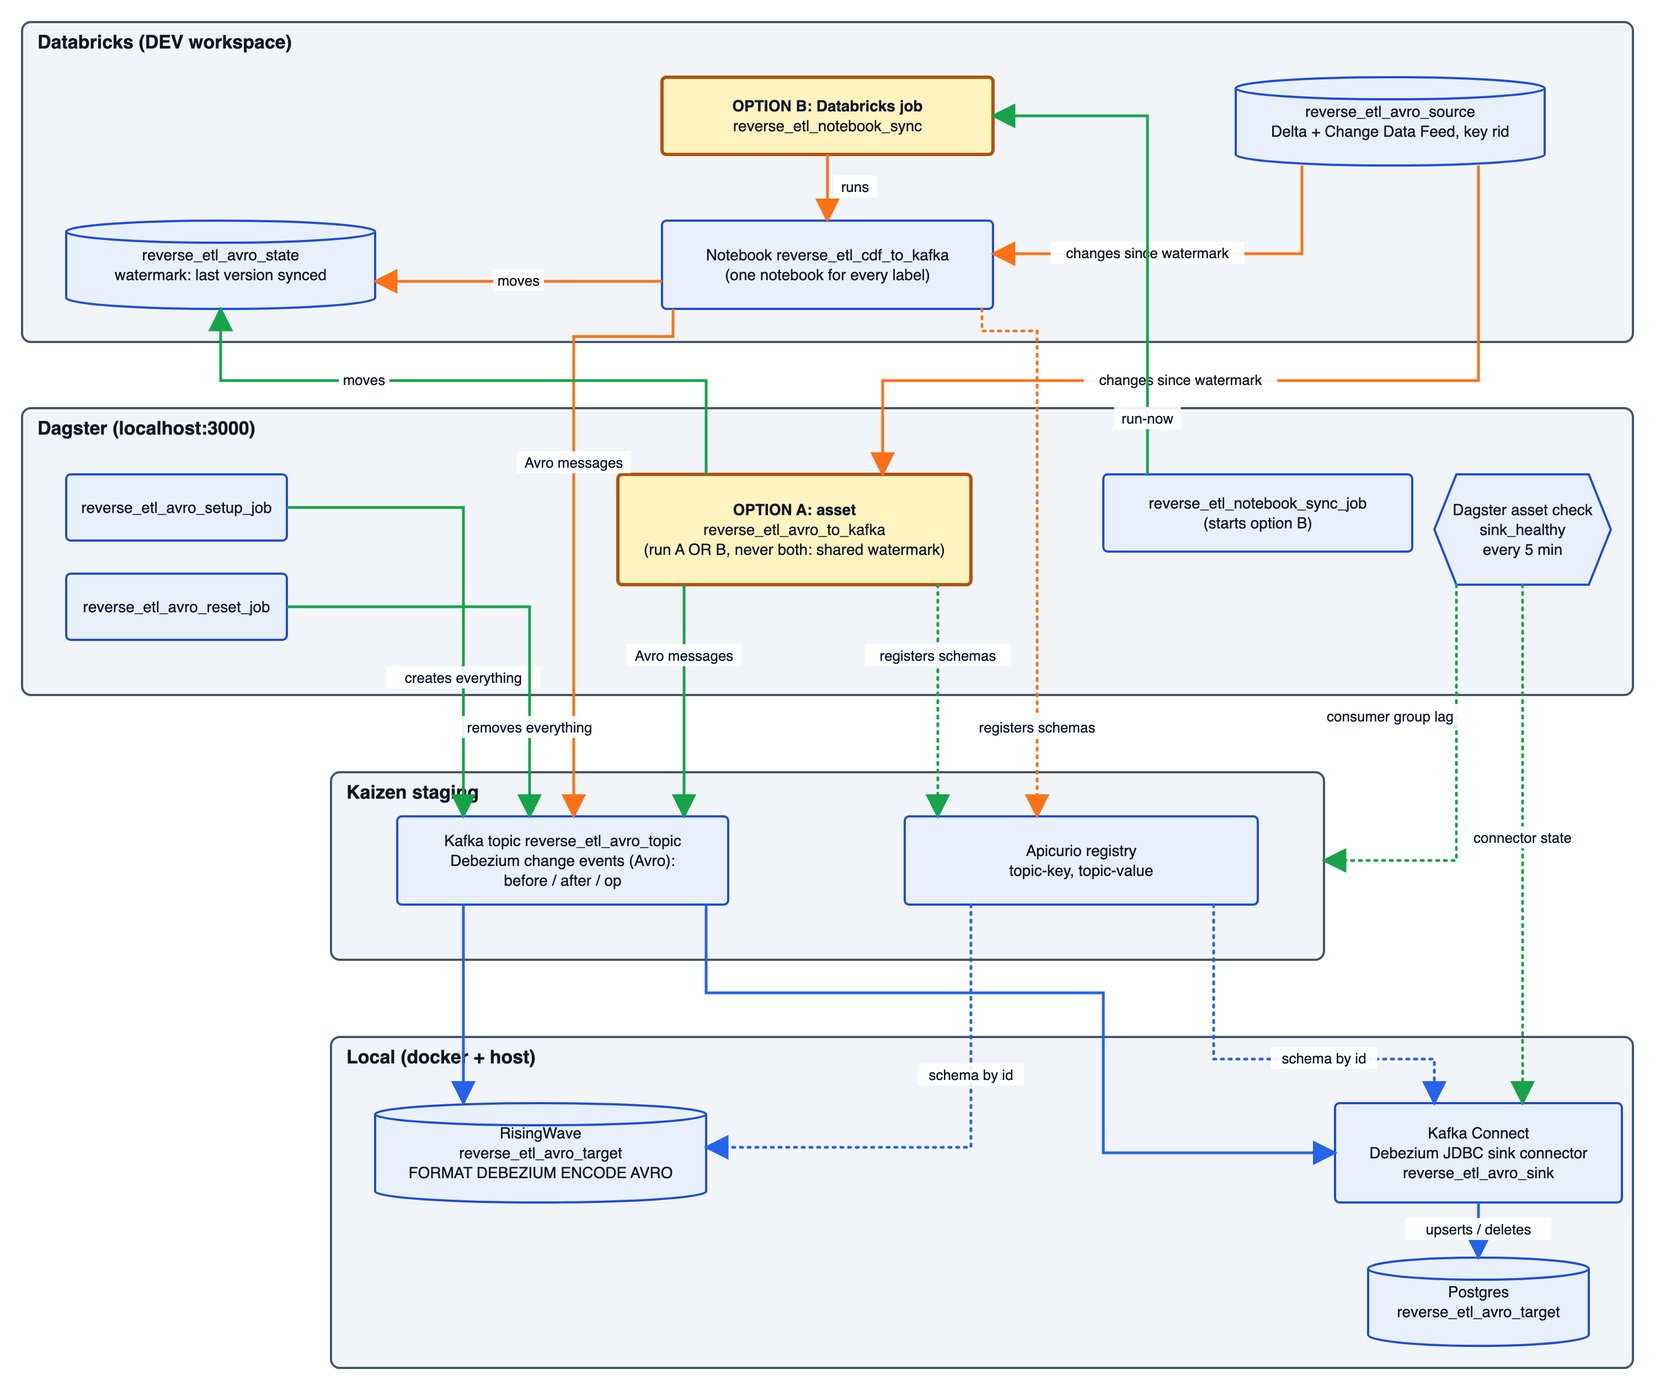
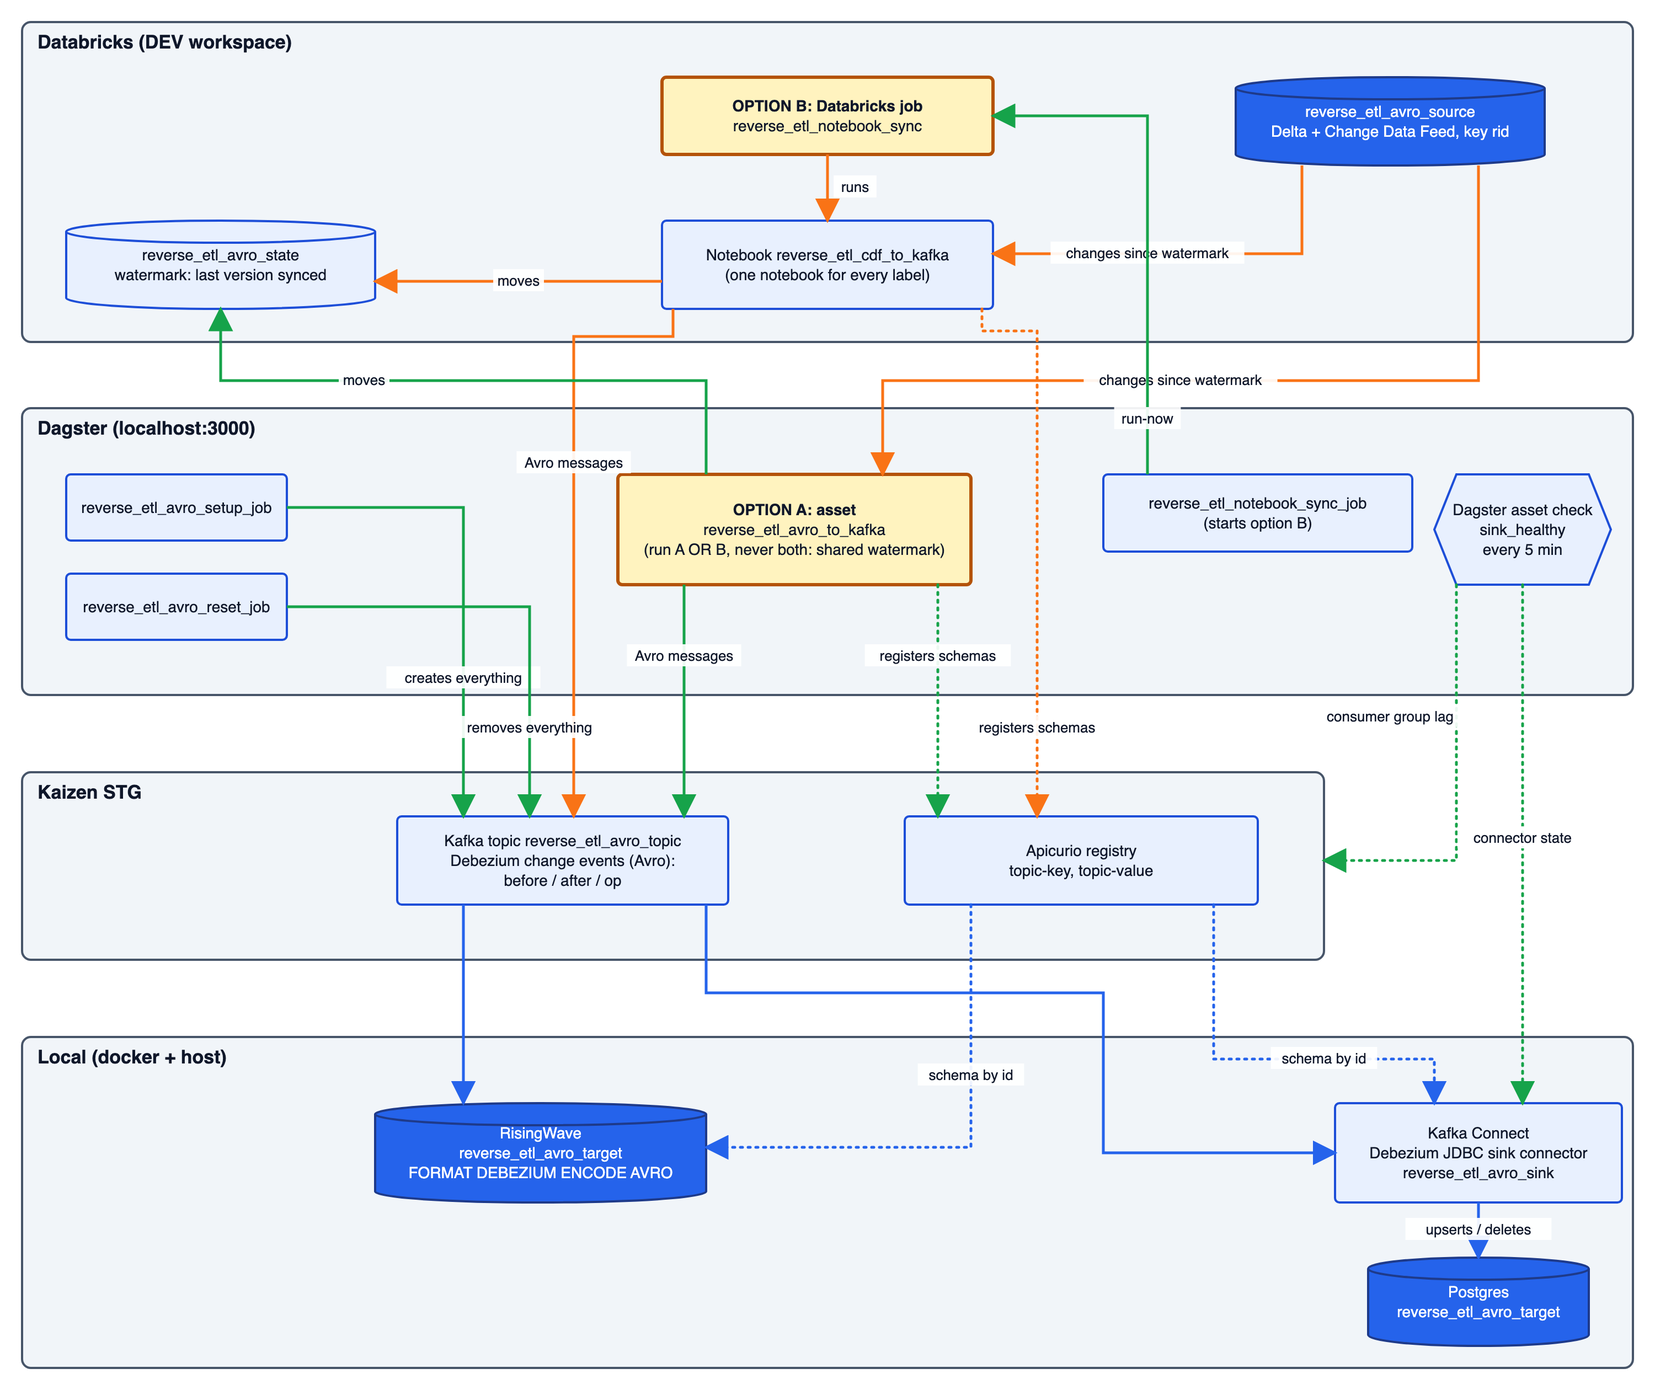
docs: Add an animated data flow page and refresh the components diagram
- Add reverse_etl_data_flow.html: a step-by-step animation of one change with a
  description of each step, plus what the Databricks source table needs and its DDL
  (checked against the live table).
- Components diagram: align the Kaizen STG and Local boxes and their titles with the
  Dagster box, rename Kaizen staging to Kaizen STG, fill the three tables solid, and
  re-export the PNG.
- Live demo doc: drop the text diagram in favour of the image and link the animation.

diff --git a/docs/poc/reverse_etl_data_flow.html b/docs/poc/reverse_etl_data_flow.html
@@ -1,0 +1,204 @@
+<!DOCTYPE html>
+<html lang="en">
+<head>
+<meta charset="utf-8">
+<meta name="viewport" content="width=device-width, initial-scale=1">
+<title>Reverse-ETL data flow</title>
+<style>
+  :root {
+    --bg: #ffffff; --text: #1f1e1d; --muted: #5f5e5a; --line: #b4b2a9; --card: #f5f4ee; --card-border: #d3d1c7; --active: #ef9f27;
+    --coral-f: #faece7; --coral-s: #993c1d; --coral-t: #712b13; --coral-u: #993c1d;
+    --purple-f: #eeedfe; --purple-s: #534ab7; --purple-t: #3c3489; --purple-u: #534ab7;
+    --teal-f: #e1f5ee; --teal-s: #0f6e56; --teal-t: #085041; --teal-u: #0f6e56;
+  }
+  @media (prefers-color-scheme: dark) {
+    :root {
+      --bg: #1f1e1d; --text: #f1efe8; --muted: #b4b2a9; --line: #5f5e5a; --card: #2c2c2a; --card-border: #444441;
+      --coral-f: #712b13; --coral-s: #f0997b; --coral-t: #faece7; --coral-u: #f5c4b3;
+      --purple-f: #3c3489; --purple-s: #afa9ec; --purple-t: #eeedfe; --purple-u: #cecbf6;
+      --teal-f: #085041; --teal-s: #5dcaa5; --teal-t: #e1f5ee; --teal-u: #9fe1cb;
+    }
+  }
+  * { box-sizing: border-box; }
+  body { margin: 0; padding: 24px; background: var(--bg); color: var(--text); font-family: -apple-system, "Segoe UI", Helvetica, Arial, sans-serif; }
+  h1 { font-size: 22px; font-weight: 500; margin: 0 0 4px; }
+  .sub { color: var(--muted); font-size: 14px; margin: 0 0 20px; }
+  .wrap { display: grid; grid-template-columns: minmax(0, 680px) minmax(280px, 1fr); gap: 24px; align-items: start; max-width: 1200px; }
+  @media (max-width: 1000px) { .wrap { grid-template-columns: minmax(0, 1fr); } }
+  svg { width: 100%; height: auto; display: block; }
+  svg text { font-family: inherit; fill: var(--text); }
+  .th { font-size: 14px; font-weight: 500; }
+  .ts { font-size: 12px; }
+  .coral rect { fill: var(--coral-f); stroke: var(--coral-s); } .coral .th { fill: var(--coral-t); } .coral .ts { fill: var(--coral-u); }
+  .purple rect { fill: var(--purple-f); stroke: var(--purple-s); } .purple .th { fill: var(--purple-t); } .purple .ts { fill: var(--purple-u); }
+  .teal rect { fill: var(--teal-f); stroke: var(--teal-s); } .teal .th { fill: var(--teal-t); } .teal .ts { fill: var(--teal-u); }
+  .node { transition: opacity .3s; }
+  .edge { stroke: var(--line); stroke-width: 1.5; opacity: .35; transition: opacity .3s; }
+  .edge.on { stroke: var(--active); stroke-width: 2.5; opacity: 1; }
+  .controls { display: flex; align-items: center; gap: 8px; margin-top: 12px; }
+  button { font: inherit; font-size: 14px; color: var(--text); background: transparent; border: 0.5px solid var(--line); border-radius: 8px; padding: 6px 14px; cursor: pointer; }
+  button:hover { background: var(--card); }
+  button:focus-visible { outline: 2px solid var(--active); outline-offset: 2px; }
+  .pos { margin-left: auto; font-size: 13px; color: var(--muted); }
+  ol { list-style: none; margin: 0; padding: 0; display: flex; flex-direction: column; gap: 8px; }
+  li { display: grid; grid-template-columns: 28px 1fr; gap: 4px 10px; padding: 10px 12px; border: 0.5px solid var(--card-border); border-radius: 12px; cursor: pointer; opacity: .6; transition: opacity .3s, background .3s; }
+  li:hover { opacity: .9; }
+  li.on { opacity: 1; background: var(--card); border-color: var(--active); border-width: 1.5px; }
+  .num { grid-row: 1 / span 2; width: 24px; height: 24px; border-radius: 50%; border: 0.5px solid var(--line); font-size: 12px; display: flex; align-items: center; justify-content: center; margin-top: 1px; }
+  li.on .num { background: var(--active); border-color: var(--active); color: #412402; font-weight: 500; }
+  .t { font-size: 15px; font-weight: 500; }
+  .d { font-size: 13.5px; color: var(--muted); line-height: 1.55; }
+  .notes { max-width: 1200px; margin-top: 32px; padding-top: 20px; border-top: 0.5px solid var(--card-border); }
+  .notes h2 { font-size: 18px; font-weight: 500; margin: 0 0 4px; }
+  .notes .grid { display: grid; grid-template-columns: minmax(0, 1fr) minmax(0, 1fr); gap: 24px; align-items: start; }
+  @media (max-width: 1000px) { .notes .grid { grid-template-columns: minmax(0, 1fr); } }
+  .notes ul { margin: 0; padding-left: 18px; font-size: 14px; line-height: 1.6; color: var(--muted); }
+  .notes ul li { display: list-item; padding: 0; margin-bottom: 8px; border: 0; opacity: 1; cursor: auto; }
+  .notes b { color: var(--text); font-weight: 500; }
+  .notes p, .notes li { overflow-wrap: anywhere; }
+  .notes code { font-family: ui-monospace, Menlo, monospace; font-size: 12.5px; background: var(--card); padding: 1px 5px; border-radius: 4px; }
+  .notes pre { margin: 0 0 16px; padding: 12px 14px; background: var(--card); border: 0.5px solid var(--card-border); border-radius: 8px; font-family: ui-monospace, Menlo, monospace; font-size: 12.5px; line-height: 1.55; overflow-x: auto; }
+  .notes .label { font-size: 13px; font-weight: 500; margin: 0 0 6px; }
+  @media (prefers-reduced-motion: reduce) { .node, .edge, li { transition: none; } }
+</style>
+</head>
+<body>
+<h1>Reverse-ETL data flow</h1>
+<p class="sub">One change, from the Databricks Delta table to Postgres and RisingWave. Use the buttons, click a step, or press the left and right arrow keys.</p>
+
+<div class="wrap">
+  <div>
+    <svg viewBox="0 0 680 350" role="img" aria-label="Source table and state table feed a sync, which writes schemas to a registry and messages to Kafka; Kafka Connect writes Postgres and RisingWave reads the topic directly.">
+      <defs><marker id="arrow" viewBox="0 0 10 10" refX="8" refY="5" markerWidth="6" markerHeight="6" orient="auto-start-reverse"><path d="M2 1L8 5L2 9" fill="none" stroke="context-stroke" stroke-width="1.5" stroke-linecap="round" stroke-linejoin="round"/></marker></defs>
+
+      <line id="e1" class="edge" x1="180" y1="70" x2="265" y2="125" marker-end="url(#arrow)"/>
+      <line id="e2" class="edge" x1="180" y1="185" x2="265" y2="150" marker-end="url(#arrow)"/>
+      <line id="e8" class="edge" x1="265" y1="162" x2="180" y2="200" marker-end="url(#arrow)"/>
+      <line id="e3" class="edge" x1="415" y1="120" x2="500" y2="70" marker-end="url(#arrow)"/>
+      <line id="e4" class="edge" x1="415" y1="138" x2="500" y2="138" marker-end="url(#arrow)"/>
+      <line id="e5" class="edge" x1="530" y1="166" x2="400" y2="240" marker-end="url(#arrow)"/>
+      <line id="e6" class="edge" x1="265" y1="268" x2="180" y2="268" marker-end="url(#arrow)"/>
+      <line id="e7" class="edge" x1="575" y1="166" x2="575" y2="240" marker-end="url(#arrow)"/>
+
+      <g id="n-src" class="node coral"><rect x="30" y="30" width="150" height="56" rx="4" stroke-width="0.5"/><text class="th" x="105" y="51" text-anchor="middle" dominant-baseline="central">Source table</text><text class="ts" x="105" y="70" text-anchor="middle" dominant-baseline="central">Databricks Delta</text></g>
+      <g id="n-state" class="node coral"><rect x="30" y="160" width="150" height="56" rx="4" stroke-width="0.5"/><text class="th" x="105" y="181" text-anchor="middle" dominant-baseline="central">State table</text><text class="ts" x="105" y="200" text-anchor="middle" dominant-baseline="central">Watermark</text></g>
+      <g id="n-sync" class="node purple"><rect x="265" y="110" width="150" height="56" rx="4" stroke-width="0.5"/><text class="th" x="340" y="131" text-anchor="middle" dominant-baseline="central">Sync</text><text class="ts" x="340" y="150" text-anchor="middle" dominant-baseline="central">Dagster asset</text></g>
+      <g id="n-reg" class="node teal"><rect x="500" y="30" width="150" height="56" rx="4" stroke-width="0.5"/><text class="th" x="575" y="51" text-anchor="middle" dominant-baseline="central">Registry</text><text class="ts" x="575" y="70" text-anchor="middle" dominant-baseline="central">Apicurio schemas</text></g>
+      <g id="n-kafka" class="node teal"><rect x="500" y="110" width="150" height="56" rx="4" stroke-width="0.5"/><text class="th" x="575" y="131" text-anchor="middle" dominant-baseline="central">Kafka topic</text><text class="ts" x="575" y="150" text-anchor="middle" dominant-baseline="central">Avro change events</text></g>
+      <g id="n-connect" class="node teal"><rect x="265" y="240" width="150" height="56" rx="4" stroke-width="0.5"/><text class="th" x="340" y="261" text-anchor="middle" dominant-baseline="central">Kafka Connect</text><text class="ts" x="340" y="280" text-anchor="middle" dominant-baseline="central">Debezium JDBC sink</text></g>
+      <g id="n-pg" class="node teal"><rect x="30" y="240" width="150" height="56" rx="4" stroke-width="0.5"/><text class="th" x="105" y="261" text-anchor="middle" dominant-baseline="central">Postgres</text><text class="ts" x="105" y="280" text-anchor="middle" dominant-baseline="central">Target table</text></g>
+      <g id="n-rw" class="node teal"><rect x="500" y="240" width="150" height="56" rx="4" stroke-width="0.5"/><text class="th" x="575" y="261" text-anchor="middle" dominant-baseline="central">RisingWave</text><text class="ts" x="575" y="280" text-anchor="middle" dominant-baseline="central">Target table</text></g>
+
+      <g id="dots"></g>
+
+      <g class="coral"><rect x="30" y="322" width="10" height="10" rx="2" stroke-width="0.5"/><text class="ts" x="46" y="327" dominant-baseline="central">Databricks</text></g>
+      <g class="purple"><rect x="140" y="322" width="10" height="10" rx="2" stroke-width="0.5"/><text class="ts" x="156" y="327" dominant-baseline="central">Dagster</text></g>
+      <g class="teal"><rect x="236" y="322" width="10" height="10" rx="2" stroke-width="0.5"/><text class="ts" x="252" y="327" dominant-baseline="central">Kafka side and targets</text></g>
+    </svg>
+    <div class="controls">
+      <button id="prev" aria-label="Previous step">&larr; Back</button>
+      <button id="play">Pause</button>
+      <button id="next" aria-label="Next step">Next &rarr;</button>
+      <span id="pos" class="pos"></span>
+    </div>
+  </div>
+  <ol id="steps"></ol>
+</div>
+
+<section class="notes">
+  <h2>The Databricks source table</h2>
+  <p class="sub">What the table behind step 1 needs, and how to define it. The setup job creates it for you from <code>orchestration/defs/reverse_etl_avro/defs.yaml</code>; this is the DDL it runs.</p>
+  <div class="grid">
+    <div>
+      <ul>
+        <li><b>A Delta table with Change Data Feed on.</b> The sync reads changes with <code>table_changes()</code>, which only works when <code>delta.enableChangeDataFeed</code> is true. Changes made before it was switched on are not in the feed.</li>
+        <li><b>A key column that never repeats and never changes.</b> Here it is <code>rid</code>, an identity column Databricks fills in on insert. Every target is keyed on it. The business <code>id</code> is not used as the key: Unity Catalog primary keys are informational, so two rows can share an <code>id</code>, and deleting one removed the other downstream.</li>
+        <li><b>The key must exist from creation.</b> An identity column cannot be added to an existing table, so adding it later means the reset job, then the setup job.</li>
+        <li><b>Your own columns</b> go in <code>source_columns</code> in the sync's YAML (here <code>id</code>, <code>value</code>, <code>updated_at</code>).</li>
+        <li><b>Inserts must list their columns</b>, as in <code>INSERT INTO t (id, value) VALUES (...)</code>. A column-less insert fails on a table with an identity column.</li>
+        <li><b>Schema changes:</b> adding a column is carried to the targets. Dropping a column or changing a type is not, and a drop needs column mapping turned on first.</li>
+      </ul>
+    </div>
+    <div>
+      <p class="label">Source table</p>
+<pre>CREATE TABLE IF NOT EXISTS
+  de_dev.sr_poc_external.reverse_etl_avro_source (
+  rid BIGINT GENERATED ALWAYS AS IDENTITY,
+  id BIGINT NOT NULL,
+  value STRING,
+  updated_at TIMESTAMP
+) USING DELTA
+TBLPROPERTIES (
+  'delta.enableChangeDataFeed' = 'true'
+);</pre>
+      <p class="label">State table (the watermark, step 2 and step 8)</p>
+<pre>CREATE TABLE IF NOT EXISTS
+  de_dev.sr_poc_external.reverse_etl_avro_state (
+  sync_name STRING,
+  last_commit_version BIGINT
+);</pre>
+    </div>
+  </div>
+</section>
+
+<script>
+const S = [
+  { t: 'A row changes in Databricks', d: 'An update, insert or delete creates a new version of the Delta table. Change Data Feed records the before and after of each row.', n: ['src'], e: [] },
+  { t: 'The sync reads the watermark', d: 'It asks the state table which table version was already synced. On the first run that is 0.', n: ['state', 'sync'], e: ['e2'] },
+  { t: 'The sync reads the changes', d: 'It reads every change made after that version and turns each one into a before, after and op event.', n: ['src', 'sync'], e: ['e1'] },
+  { t: 'Schemas go to the registry', d: 'The key and value Avro schemas are registered. A new column adds a new schema version here before any message uses it.', n: ['sync', 'reg'], e: ['e3'] },
+  { t: 'Events go to Kafka', d: 'The sync produces one Avro message per change. Each carries only a schema id, not the schema.', n: ['sync', 'kafka'], e: ['e4'] },
+  { t: 'Two readers take the topic', d: 'Kafka Connect and RisingWave each read the topic on their own and keep their own place. RisingWave applies the change to its table here.', n: ['kafka', 'connect', 'rw'], e: ['e5', 'e7'] },
+  { t: 'Postgres applies the change', d: 'The Debezium JDBC sink upserts or deletes the row. Both targets now match the source.', n: ['connect', 'pg', 'rw'], e: ['e6'] },
+  { t: 'The watermark moves', d: 'Only after the messages are produced does the sync write the new version to the state table. The next run starts after it.', n: ['sync', 'state'], e: ['e8'] }
+];
+const NODES = ['src', 'state', 'sync', 'reg', 'kafka', 'connect', 'pg', 'rw'];
+const EDGES = ['e1', 'e2', 'e3', 'e4', 'e5', 'e6', 'e7', 'e8'];
+const $ = id => document.getElementById(id);
+const reduce = matchMedia('(prefers-reduced-motion: reduce)').matches;
+let i = 0, timer = null, live = [];
+
+const list = $('steps');
+S.forEach((s, k) => {
+  const li = document.createElement('li');
+  li.innerHTML = '<span class="num">' + (k + 1) + '</span><span class="t"></span><span class="d"></span>';
+  li.querySelector('.t').textContent = s.t;
+  li.querySelector('.d').textContent = s.d;
+  li.onclick = () => { stop(); show(k); };
+  list.appendChild(li);
+});
+
+function show(k) {
+  i = (k + S.length) % S.length;
+  const s = S[i];
+  NODES.forEach(n => { $('n-' + n).style.opacity = s.n.includes(n) ? 1 : 0.4; });
+  EDGES.forEach(e => $(e).classList.toggle('on', s.e.includes(e)));
+  $('dots').innerHTML = '';
+  live = s.e.map(e => {
+    const l = $(e), c = document.createElementNS('http://www.w3.org/2000/svg', 'circle');
+    c.setAttribute('r', 5); c.setAttribute('fill', '#ef9f27');
+    $('dots').appendChild(c);
+    return { c, x1: +l.getAttribute('x1'), y1: +l.getAttribute('y1'), x2: +l.getAttribute('x2'), y2: +l.getAttribute('y2') };
+  });
+  [...list.children].forEach((li, n) => li.classList.toggle('on', n === i));
+  $('pos').textContent = 'Step ' + (i + 1) + ' of ' + S.length;
+}
+function tick(now) {
+  const p = reduce ? 1 : (now % 1400) / 1400;
+  live.forEach(o => { o.c.setAttribute('cx', o.x1 + (o.x2 - o.x1) * p); o.c.setAttribute('cy', o.y1 + (o.y2 - o.y1) * p); });
+  requestAnimationFrame(tick);
+}
+function start() { stop(); timer = setInterval(() => show(i + 1), 4500); $('play').textContent = 'Pause'; }
+function stop() { if (timer) { clearInterval(timer); timer = null; } $('play').textContent = 'Play'; }
+
+$('prev').onclick = () => { stop(); show(i - 1); };
+$('next').onclick = () => { stop(); show(i + 1); };
+$('play').onclick = () => (timer ? stop() : start());
+document.addEventListener('keydown', e => {
+  if (e.key === 'ArrowRight') { stop(); show(i + 1); }
+  if (e.key === 'ArrowLeft') { stop(); show(i - 1); }
+});
+show(0); requestAnimationFrame(tick); start();
+</script>
+</body>
+</html>

diff --git a/docs/poc/REVERSE_ETL_LIVE_DEMO.md b/docs/poc/REVERSE_ETL_LIVE_DEMO.md
@@ -31,53 +31,17 @@ Names are for the `avro` sync. Every name is `reverse_etl_<label>_<role>`, so fo
 
 ### Diagram
 
-```
- DATABRICKS (DEV workspace)
- +-----------------------------------------------------------------+
- | reverse_etl_avro_source  Delta table, Change Data Feed, key rid |
- | reverse_etl_avro_state   watermark: last table version synced   |
- +--------------------------------+--------------------------------+
-                                 | changes since the watermark
-                                 v
- +-----------------------------------------------------------------+
- | THE SYNC, run by either                                         |
- |   - Dagster asset    reverse_etl_avro_to_kafka                  |
- |   - Databricks job   reverse_etl_notebook_sync (a notebook)     |
- | builds before/after/op events, produces Avro messages, then     |
- | moves the watermark                                             |
- +-------------+-----------------------------------+---------------+
-               | messages                          | registers schemas
-               v                                   v
- +------------------------------+     +-------------------------------+
- | STAGING KAFKA                |     | APICURIO REGISTRY (staging)   |
- | topic reverse_etl_avro_topic |     | reverse_etl_avro_topic-key    |
- | (15 partitions)              |     | reverse_etl_avro_topic-value  |
- +---------+-------------+------+     +-------------------------------+
-           | reads       | reads         (both readers look up each
-           v             v                message's schema here, by id)
- +-----------------+  +--------------------------------+
- | KAFKA CONNECT   |  | RISINGWAVE (local)             |
- | connector       |  | table reverse_etl_avro_target  |
- | reverse_etl_    |  | FORMAT DEBEZIUM ENCODE AVRO    |
- |   avro_sink     |  +--------------------------------+
- +--------+--------+
-          | upserts / deletes
-          v
- +--------------------------------+
- | POSTGRES (host)                |
- | table reverse_etl_avro_target  |
- +--------------------------------+
-```
+![Reverse-ETL components](img/reverse_etl_components.png)
 
 The two readers of the topic are independent: each keeps its own place in it, so one can fall behind or stop
 without the other noticing (the demo in section 7 uses this).
 
-The same picture as a drawn diagram, with the Dagster jobs and the health check added:
-
-![Reverse-ETL components](img/reverse_etl_components.png)
-
 (The drawing is `img/reverse_etl_components.svg`, a plain-text SVG you can edit; the PNG is the same drawing
 exported at 2x. It is drawn by hand, not generated, because Mermaid laid the arrows out poorly.)
+
+An animated walkthrough of one change, step by step with a description of each step, is in
+[`reverse_etl_data_flow.html`](reverse_etl_data_flow.html) (open it in a browser). It also describes what the
+Databricks source table needs and how to define it.
 
 Debezium appears three times: the messages on the topic are Debezium change events (`before`, `after`, `op`), the
 Kafka Connect connector is the Debezium JDBC sink, and RisingWave reads the topic with `FORMAT DEBEZIUM ENCODE AVRO`.
@@ -90,7 +54,7 @@ Both do the same steps (read the changes, register the schemas, produce the mess
 each has its own arrows to the source, the watermark, the topic (the Avro messages, solid arrow) and the
 registry (the schemas, dotted arrow).
 The health check (`sink_healthy`) is in the Dagster box; its dotted arrows go to Kafka Connect (connector state) and to
-the Kaizen staging box (consumer group lag).
+the Kaizen STG box (consumer group lag).
 
 ### Databricks (DEV workspace, `de_dev.sr_poc_external`)
 
